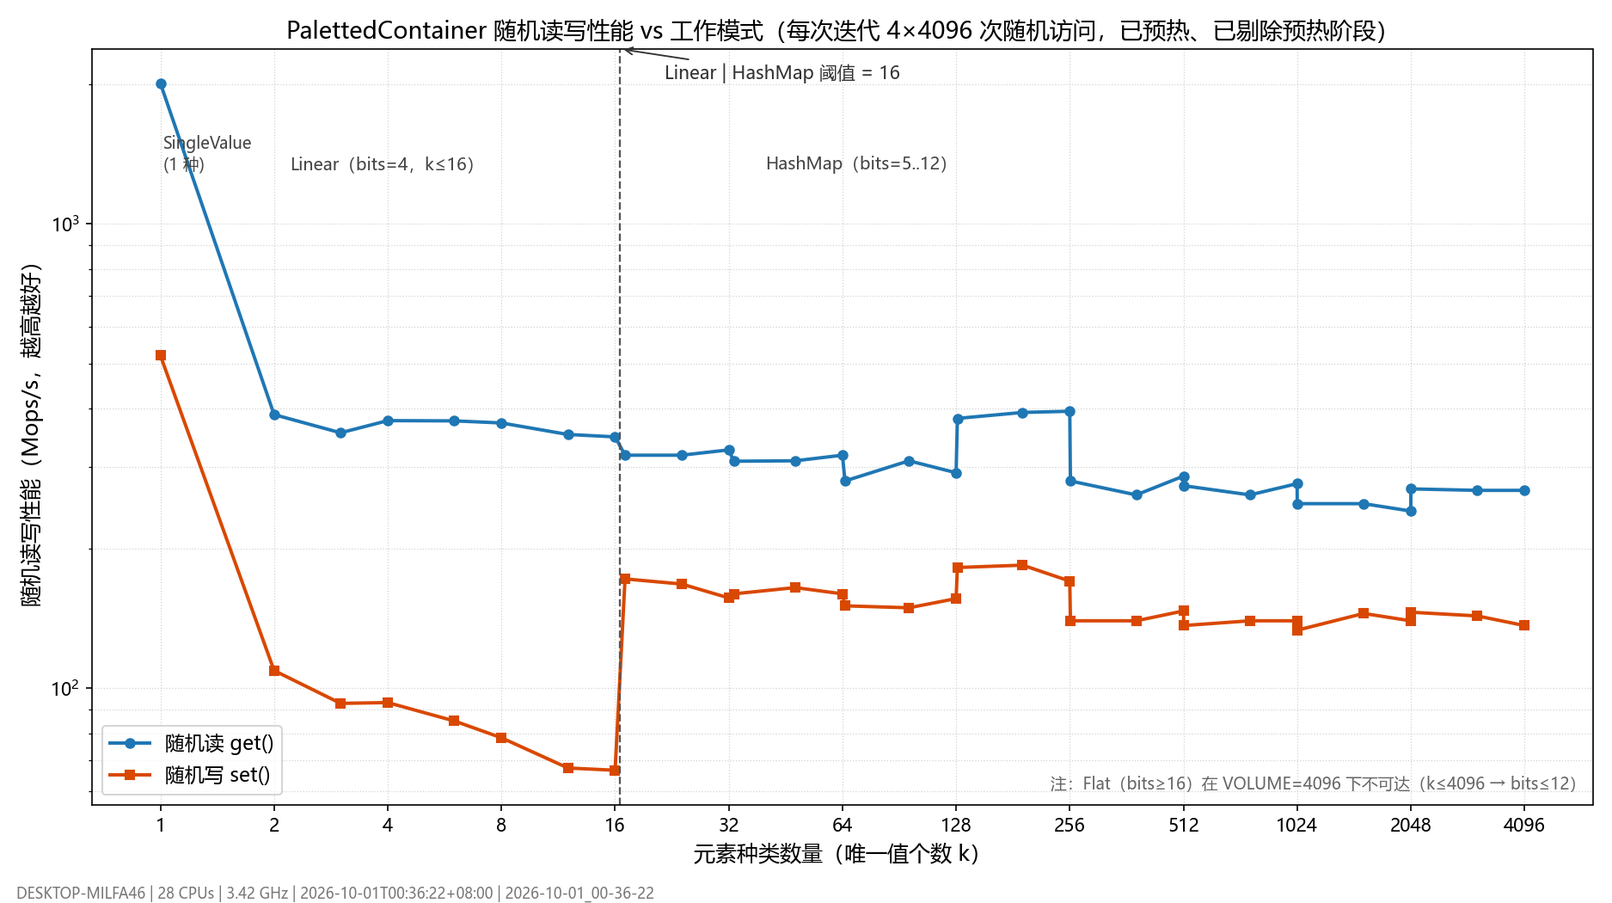
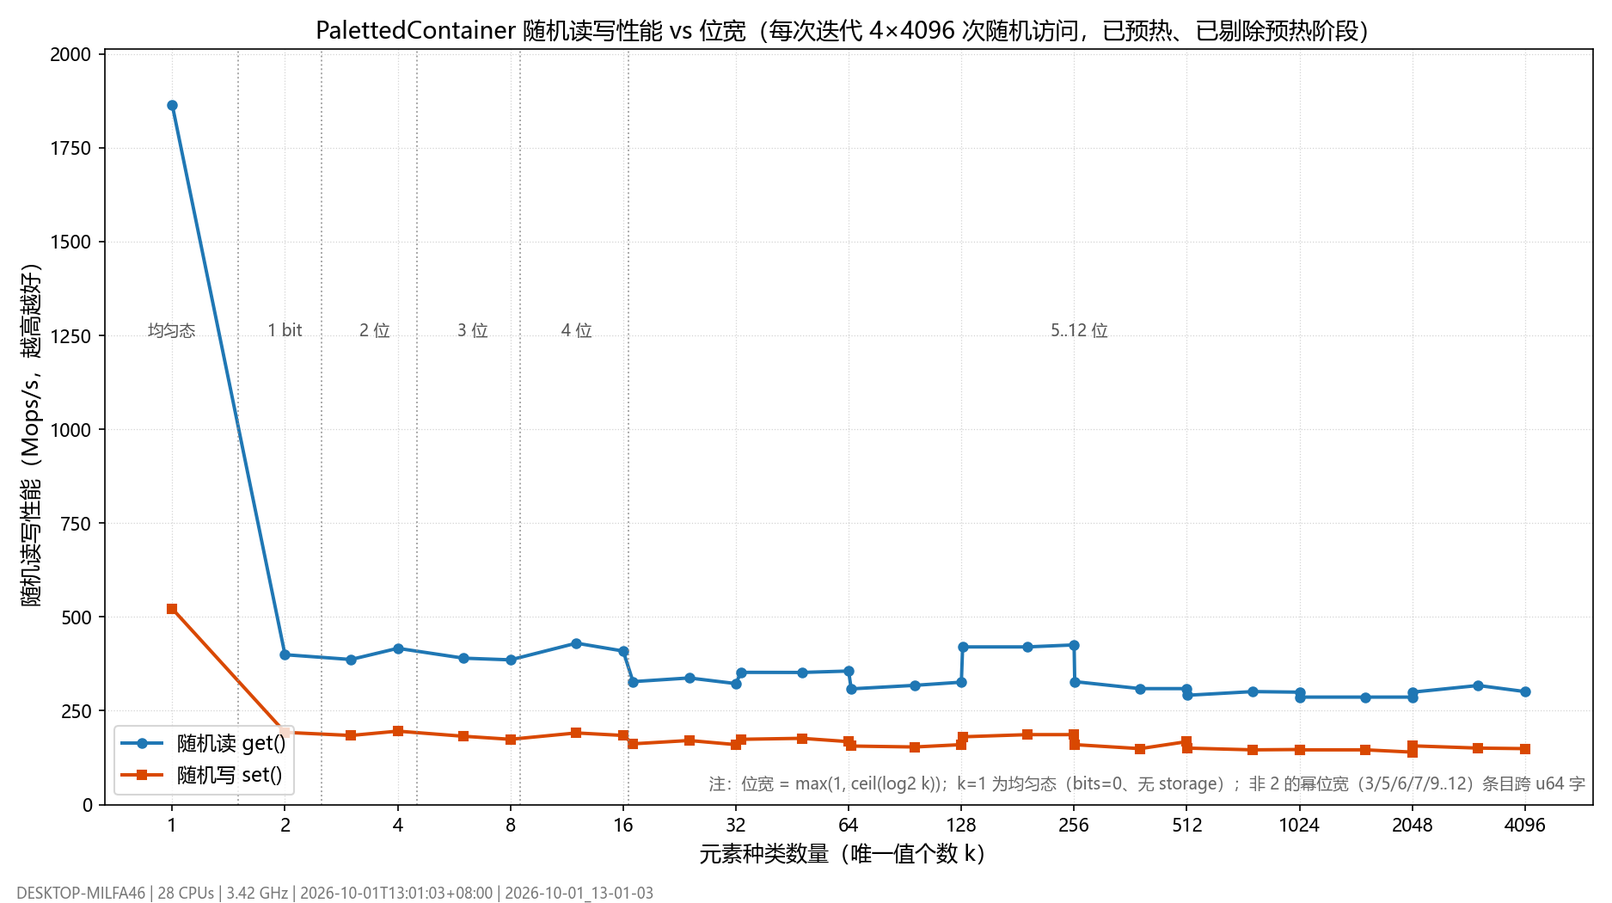
docs(benchmark): 调色板基准与图表随单模式设计更新
容器已收敛为单一哈希模式（上一提交），本提交把基准用例、绘图脚本与文档同步到新语义：

- 用例说明改为「vs 位宽」：k=1 为均匀态（bits=0、无 storage），k≥2 时
  bits = max(1, ceil(log2 k))，扫描点覆盖 bits 1..12 各档
- 绘图脚本：删除 Linear|HashMap 阈值、Flat 不可达等旧标注，改为位宽档分区标注；
  纵轴改为**线性且从 0 开始**（不再指数缩放），横轴保持 log2
- docs/BENCHMARK.md：重写该用例小节（新实测表与结论），新增「设计变更记录」小节，
  记录新旧实现对比（k=16 写 66.6→184.2 Mops/s、k=2 段内存 2.2KB→680B、真实地形
  256 区块批位存储 4.62MB→2.40MB）与真实地形位宽分布（1 位 259 段 / 2 位 1549 段 /
  3 位 446 段），并说明磁盘/网络格式不受影响
- benchmark/README.md 的用例清单同步；重新生成 docs/paletted_container_random_access.png

diff --git a/benchmark/scripts/plot_paletted_container.py b/benchmark/scripts/plot_paletted_container.py
@@ -28,10 +28,17 @@ from matplotlib.ticker import FuncFormatter, LogLocator
 REPO_ROOT = Path(__file__).resolve().parents[2]
 DEFAULT_OUTPUT = REPO_ROOT / "docs" / "paletted_container_random_access.png"
 
-# 模式边界（与 PalettedContainer::_modeForBits 一致）：bits==0 → SingleValue；
-# bits<=4 → Linear；bits<16 → HashMap；bits>=16 → Flat。
-LINEAR_MAX_KINDS = 16
-FLAT_MIN_BITS = 16
+# 容器只有一种工作模式（调色板 + 位压缩 + 反向哈希表）：k=1 是均匀态（bits=0、无 storage），
+# k>=2 时位宽 = max(1, ceil(log2(k)))。下面是用于标注的位宽档位边界。
+MIN_BITS = 1
+BIT_WIDTH_REGIONS = [
+    (1, 1, "uniform"),
+    (2, 2, "1 bit"),
+    (3, 4, "2 bits"),
+    (5, 8, "3 bits"),
+    (9, 16, "4 bits"),
+    (17, 4096, "5..12 bits"),
+]
 
 READ_PREFIX = "PalettedContainerRandomRead"
 WRITE_PREFIX = "PalettedContainerRandomWrite"
@@ -98,38 +105,33 @@ def load_series(results_path: Path) -> dict:
     return {"series": series, "context": context, "path": results_path}
 
 
-def mode_of(kinds: int, bits: int) -> str:
-    if bits == 0:
-        return "SingleValue"
-    if bits <= 4:
-        return "Linear"
-    if bits < FLAT_MIN_BITS:
-        return "HashMap"
-    return "Flat"
+def state_of(bits: int) -> str:
+    """位宽 → 状态标签（bits=0 即均匀态：无 storage）。"""
+    return "uniform" if bits == 0 else f"{bits} bits"
 
 
 def print_tables(data: dict) -> None:
     read, write = data["series"]["read"], data["series"]["write"]
     kinds_all = sorted(set(read) | set(write))
-    print(f"{'kinds':>6} {'bits':>5} {'mode':>11} {'palette':>8} {'mem(B)':>8} "
+    print(f"{'kinds':>6} {'bits':>5} {'state':>9} {'palette':>8} {'mem(B)':>8} "
           f"{'read Mops/s':>12} {'write Mops/s':>13} {'read ns':>8} {'write ns':>9}")
     for kinds in kinds_all:
         row = read.get(kinds) or write.get(kinds)
         r, w = read.get(kinds), write.get(kinds)
-        print(f"{kinds:>6} {row['bits']:>5} {mode_of(kinds, row['bits']):>11} {row['palette']:>8} "
+        print(f"{kinds:>6} {row['bits']:>5} {state_of(row['bits']):>9} {row['palette']:>8} "
               f"{row['memory_bytes']:>8.0f} "
               f"{(r['mops'] if r else float('nan')):>12.1f} {(w['mops'] if w else float('nan')):>13.1f} "
               f"{(r['ns_per_op'] if r else float('nan')):>8.2f} {(w['ns_per_op'] if w else float('nan')):>9.2f}")
 
-    # 阈值邻域对比：Linear 上界 vs HashMap 下界
-    print("\n阈值邻域（Linear 上界 k=16 vs HashMap 下界 k=17）:")
-    for kinds in (16, 17):
+    # 均匀态 → 1 位 的拐点（唯一值从 1 增到 2）
+    print("\n均匀态(k=1, 无 storage) vs 1 位(k=2):")
+    for kinds in (1, 2):
         r, w = read.get(kinds), write.get(kinds)
         if r and w:
             print(f"  k={kinds:>4}: read {r['mops']:8.1f} Mops/s  write {w['mops']:8.1f} Mops/s  "
                   f"bits={r['bits']} mem={r['memory_bytes']:.0f}B")
 
-    # 每个位宽档的读写均值（看位宽对性能的影响，尤其是 2 的幂位宽 bits=8）
+    # 每个位宽档的读写均值（看位宽对性能的影响，尤其是 2 的幂位宽不跨 u64 字）
     print("\n按位宽汇总（同档位所有 k 的算术平均）:")
     by_bits: dict[int, list[tuple[float, float]]] = {}
     for kinds, r in read.items():
@@ -165,11 +167,14 @@ def render(data: dict, output: Path) -> None:
             color="#d94801", label=t("随机写 set()", "random write set()"))
 
     ax.set_xscale("log", base=2)
-    ax.set_yscale("log")
+    # 纵轴线性且从 0 开始（不使用指数缩放）
+    ax.set_yscale("linear")
+    peak_mops = max([v["mops"] for v in read.values()] + [v["mops"] for v in write.values()])
+    ax.set_ylim(0.0, peak_mops * 1.08)
     ax.set_xlabel(t("元素种类数量（唯一值个数 k）", "distinct element kinds (k)"), fontsize=12)
     ax.set_ylabel(t("随机读写性能（Mops/s，越高越好）", "random access throughput (Mops/s)"), fontsize=12)
-    ax.set_title(t("PalettedContainer 随机读写性能 vs 工作模式（每次迭代 4×4096 次随机访问，已预热、已剔除预热阶段）",
-                   "PalettedContainer random access vs working mode (4x4096 random ops/iteration, warmed up)"),
+    ax.set_title(t("PalettedContainer 随机读写性能 vs 位宽（每次迭代 4×4096 次随机访问，已预热、已剔除预热阶段）",
+                   "PalettedContainer random access vs bit width (4x4096 random ops/iteration, warmed up)"),
                  fontsize=13)
     ax.grid(True, which="both", linestyle=":", linewidth=0.6, alpha=0.55)
     ax.legend(fontsize=11, loc="lower left")
@@ -180,20 +185,19 @@ def render(data: dict, output: Path) -> None:
     ax.get_xaxis().set_major_formatter(FuncFormatter(lambda value, _pos: f"{int(value):d}"))
     ax.xaxis.set_minor_locator(LogLocator(base=2.0, subs="auto", numticks=40))
 
-    # 模式分界：Linear 2..16 / HashMap 17..4096；Flat 在 VOLUME=4096 下不可达
-    ax.axvline(LINEAR_MAX_KINDS + 0.5, color="#555555", linestyle="--", linewidth=1.1)
+    # 位宽档分界（只有一种工作模式，k 决定位宽）：均匀态 | 1 | 2 | 3 | 4 | 5..12 位
     ymin, ymax = ax.get_ylim()
-    ax.annotate(t(f"Linear | HashMap 阈值 = {LINEAR_MAX_KINDS}",
-                  f"Linear | HashMap threshold = {LINEAR_MAX_KINDS}"),
-                xy=(LINEAR_MAX_KINDS + 0.5, ymax), xytext=(LINEAR_MAX_KINDS * 1.35, ymax * 0.86),
-                fontsize=10, color="#333333",
-                arrowprops={"arrowstyle": "->", "color": "#333333", "linewidth": 0.9})
-    ax.text(1.02, ymax * 0.55, t("SingleValue\n(1 种)", "SingleValue\n(1 kind)"), fontsize=9, color="#444444")
-    ax.text(2.2, ymax * 0.55, t("Linear（bits=4，k≤16）", "Linear (bits=4, k<=16)"), fontsize=9.5, color="#444444")
-    ax.text(40, ymax * 0.55, t("HashMap（bits=5..12）", "HashMap (bits=5..12)"), fontsize=9.5, color="#444444")
+    for _lo, hi, _label in BIT_WIDTH_REGIONS[:-1]:
+        ax.axvline(hi + 0.5, color="#888888", linestyle=":", linewidth=0.9, alpha=0.8)
+    for lo, hi, label in BIT_WIDTH_REGIONS:
+        center = math.sqrt(lo * hi) if lo != hi else lo
+        ax.text(center, ymax * 0.62, t(label.replace("bits", "位").replace("uniform", "均匀态"),
+                                      label),
+                fontsize=9, color="#555555", ha="center")
     ax.text(0.995, 0.02,
-            t(f"注：Flat（bits≥{FLAT_MIN_BITS}）在 VOLUME=4096 下不可达（k≤4096 → bits≤12）",
-              f"note: Flat (bits>={FLAT_MIN_BITS}) is unreachable at VOLUME=4096"),
+            t(f"注：位宽 = max({MIN_BITS}, ceil(log2 k))；k=1 为均匀态（bits=0、无 storage）；"
+              "非 2 的幂位宽（3/5/6/7/9..12）条目跨 u64 字",
+              f"note: bits = max({MIN_BITS}, ceil(log2 k)); k=1 is uniform (no storage)"),
             transform=ax.transAxes, ha="right", fontsize=9, color="#666666")
 
     ctx = data["context"]

diff --git a/benchmark/cases/PalettedContainerBenchmark.cpp b/benchmark/cases/PalettedContainerBenchmark.cpp
@@ -86,10 +86,10 @@ struct AccessPattern {
 
 /// 装配容器：把 VOLUME 个位置均匀填成 k 种取值（各约 VOLUME/k 个位置）。
 ///
-/// 先 fill(1) 建立 SingleValue 基线，再逐格 set()：k=1 时全部 set 命中单一值、容器保持
-/// SingleValue（bits=0）；k≥2 时首次 set 触发 SingleValue→Linear 转换，随后调色板按新值
-/// 出现顺序增长到恰好 k 项。与生产路径（ChunkSection 逐格写入）一致，含真实的
-/// _onResize 位数提升。
+/// 先 fill(1) 建立均匀态基线，再逐格 set()：k=1 时全部 set 命中唯一值、容器保持均匀态
+/// （bits=0、无 storage）；k≥2 时首次 set 升到 1 位并建立反向哈希表，随后调色板按新值
+/// 出现顺序增长到恰好 k 项、位宽升到 ceil(log2(k))。与生产路径（ChunkSection 逐格写入）
+/// 一致，含真实的 _onResize 位宽提升。
 void buildContainer(PalettedContainer& container, i32 k)
 {
     container.fill(1);
@@ -138,14 +138,14 @@ void warmUpWrites(PalettedContainer& container, const AccessPattern& pattern)
 }
 
 /**
- * @brief 随机读基准（按元素种类数量扫描调色板模式）
+ * @brief 随机读基准（按元素种类数量扫描位宽）
  *
- * 一次迭代 = 对固定随机索引序列做 4×VOLUME 次 get()。工作模式由 k 决定：
- * k=1 → SingleValue（bits=0，直取单值）；k=2..16 → Linear（bits=4，线性调色板）；
- * k=17..4096 → HashMap（bits=5..12，哈希双射调色板 + 跨 u64 字的位存储）。
+ * 一次迭代 = 对固定随机索引序列做 4×VOLUME 次 get()。容器只有一种工作模式
+ * （调色板 + 位压缩 + 反向哈希表），k 只决定位宽：k=1 为均匀态（bits=0、无 storage，
+ * 直取 palette[0]），k≥2 时 bits = max(1, ceil(log2(k)))（k=2..4096 → 1..12 位）。
  *
  * 报告 reads_per_second（User Counter，迭代不变速率），并附带 bits_per_entry /
- * palette_size / memory_bytes 便于与内存换性能一起权衡阈值。
+ * palette_size / memory_bytes 便于与内存一起权衡。
  */
 void PalettedContainerRandomRead(::benchmark::State& state)
 {
@@ -173,11 +173,11 @@ void PalettedContainerRandomRead(::benchmark::State& state)
 }
 
 /**
- * @brief 随机写基准（按元素种类数量扫描调色板模式）
+ * @brief 随机写基准（按元素种类数量扫描位宽）
  *
  * 一次迭代 = 对固定随机索引序列做 4×VOLUME 次 set()，写入值取自当前 k 种取值集合，
- * 因此调色板不会增长（测稳态写入：Linear 的线性扫描 vs HashMap 的开放寻址哈希查找，
- * 以及不同的位存储宽度/调色板驻留大小）。
+ * 因此调色板不会增长（测稳态写入：反向哈希表查找 + 位存储读改写，以及不同位宽/
+ * 调色板驻留大小的成本）。
  */
 void PalettedContainerRandomWrite(::benchmark::State& state)
 {
@@ -209,9 +209,9 @@ void PalettedContainerRandomWrite(::benchmark::State& state)
 /**
  * @brief 元素种类数量扫描点（横轴），共 32 档
  *
- * 覆盖 SingleValue(1)、Linear(2..16)、HashMap 的每个位宽档（bits 5..12，各取低/中/高）：
- * 既能看清 Linear→HashMap 阈值（16/17）附近的拐点，也能对比非 2 的幂位宽（跨 u64 字
- * 读写）与 2 的幂位宽（bits=8，恰好 8 项/字、无跨字）的差异。
+ * 覆盖均匀态（k=1，bits=0）与每个位宽档（bits 1..12，各取低/中/高）：
+ * 既能看到"1 位/2 位/3 位"这些新支持的窄位宽（真实地形段的常见档位），也能对比非 2 的
+ * 幂位宽（跨 u64 字读写）与 2 的幂位宽（bits=1/2/4/8，无跨字）的差异。
  *
  * 这里用展开宏而不是函数：`BENCHMARK()` 宏展开成一个**声明**（内部生成 static 变量，
  * 返回值不能作为表达式实参传递），因此只能把同一份清单展开进两个 BENCHMARK 声明，

diff --git a/docs/BENCHMARK.md b/docs/BENCHMARK.md
@@ -70,14 +70,17 @@ cmake --build --preset macos-relwithdebinfo -- -j{核心数-2} mc_benchmark
 
 TLS 方块光引擎批量更新：每迭代对一个 16×16 截面层做 256 个方块光变更，GLOWSTONE/AIR 交替翻转保证传播工作量稳定；报告 `blocks_per_second`。不经过 tick 级调度（那属于系统吞吐，由 ChunkGeneration 间接覆盖）。
 
-### PalettedContainerRandomRead / PalettedContainerRandomWrite（调色板随机读写 vs 工作模式）
+### PalettedContainerRandomRead / PalettedContainerRandomWrite（调色板随机读写 vs 位宽）
 
-对 `PalettedContainer`（16³ = 4096 格）扫描元素种类数量 k=1..4096，用同一条固定随机序列测随机读（`get`）与随机写（`set`），为 `_modeForBits` 的模式切换阈值提供实测依据（此前阈值是照搬原版/拍脑袋，没有实测）。
+对 `PalettedContainer`（16³ = 4096 格）扫描元素种类数量 k=1..4096，用同一条固定随机序列测随机读（`get`）与随机写（`set`）。容器**只有一种工作模式**（调色板 + 位压缩 + 开放寻址反向哈希表），k 只决定位宽：k=1 是均匀态（`bits=0`、不分配 storage），k≥2 时 `bits = max(1, ceil(log2 k))`（即 1..12 位）。
 
-- 32 档扫描点：SingleValue(1)、Linear(2..16)、HashMap 的每个位宽档（bits 5..12，各取低/中/高）
+> 该用例是为"要不要去掉 Linear/Flat/SingleValue 三种模式、破除 4 位下限"提供实测依据而加的；结论已被采纳并落地（见文末「设计变更记录」）。
+
+- 32 档扫描点：均匀态(1) + 每个位宽档（bits 1..12，各取低/中/高）
 - 口径：一次迭代 = 4×4096 次随机访问；**装配（填 k 种值）与预热（8 轮同序列访问）都在计时循环之前，不计入结果**（google/benchmark 只对 `for (auto _ : state)` 循环体计时）
-- 写入值取自当前 k 种取值集合 → 调色板不增长，测稳态读写，不含扩容/模式转换
+- 写入值取自当前 k 种取值集合 → 调色板不增长，测稳态读写，不含扩容/位宽提升
 - 报告 `reads_per_second` / `writes_per_second`，并附带 `bits_per_entry` / `palette_size` / `memory_bytes`
+- 图表纵轴为**线性、从 0 开始**（横轴为 log2），便于直读绝对吞吐
 
 复现（`--benchmark_trace` 与本用例无关，默认关闭即可）：
 
@@ -89,32 +92,54 @@ python benchmark/scripts/plot_paletted_container.py \
     --output docs/paletted_container_random_access.png
 ```
 
-![PalettedContainer 随机读写性能 vs 工作模式](paletted_container_random_access.png)
+![PalettedContainer 随机读写性能 vs 位宽](paletted_container_random_access.png)
 
 实测（i7-14700KF，3 次重复取中位数；Mops/s 越高越好）：
 
-| 区间 | k | 模式（bits） | 随机读 | 随机写 | 估算内存 |
-|---|---|---|---|---|---|
-| SingleValue | 1 | SingleValue (0) | 2007.5 | 520.8 † | 116 B |
-| Linear | 2 | Linear (4) | 388.6 | 109.2 | 2.2 KB |
-| Linear | 8 | Linear (4) | 372.8 | 78.3 | 2.2 KB |
-| Linear | 16 | Linear (4) | 348.0 | 66.6 | 2.2 KB |
-| HashMap | 17 | HashMap (5) | 317.8 | 172.1 | 2.9 KB |
-| HashMap | 129/192/256 | HashMap (8) | 381.3 / 392.8 / 395.1 | 182.1 / 184.2 / 170.2 | 5.8~7.5 KB |
-| HashMap | 1025..2048 | HashMap (11) | 249.9~266.9 | 133.5~145.9 | 18.2~31.7 KB |
-| HashMap | 4096 | HashMap (12) | 266.9 | 136.6 | 60.6 KB |
+| k | bits | 随机读 | 随机写 | 估算内存 |
+|---|---|---|---|---|
+| 1 | 0（均匀态） | 1864.1 | 522.0 † | 100 B |
+| 2 | 1 | 399.5 | 192.5 | 680 B |
+| 3 / 4 | 2 | 386.6 / 416.5 | 184.2 / 195.7 | 1.2 KB |
+| 6 / 8 | 3 | 390.2 / 385.7 | 182.1 / 174.0 | 1.7 KB |
+| 12 / 16 | 4 | 430.2 / 409.2 | 191.0 / 184.2 | 2.3 KB |
+| 17 / 32 | 5 | 327.7 / 322.4 | 162.0 / 159.8 | 2.9~3.0 KB |
+| 129 / 256 | 8 | 420.2 / 425.5 | 180.7 / 186.4 | 5.8~7.5 KB |
+| 1025 / 2048 | 11 | 286.4 / 286.4 | 145.9 / 139.8 | 18.2~31.7 KB |
+| 4096 | 12 | 301.1 | 149.1 | 60.6 KB |
 
-† k=1 时写入值恒等于容器唯一值 → `SingleValue` 早退，属无操作写入，不代表真实写入成本。
+† k=1 时写入值恒等于唯一值 → 均匀态早退，属无操作写入，不代表真实写入成本。
 
-**结论（调参依据）**
+**结论**
 
-1. **阈值只影响写入，不影响读取**：读路径是"位存储 → 调色板正向索引"，不做反查；写路径才需要 `_idFor`（线性扫描 vs 哈希查找）。因此 `Linear→HashMap` 阈值应由写性能决定，用读曲线调阈值是没有意义的。
-2. **阈值 16 对写入明显偏晚**：Linear 写在 k=16 已降到 66.6 Mops/s（线性扫描 16 项），而 HashMap 在 k=17 是 172.1 Mops/s（**2.6×**）。线性扫描成本随 k 单调增长（k=2: 109 → k=16: 67），交叉点应在更小的 k；但当前实现把"策略"与"位宽"绑死（`bits<=4 → Linear`），**无法在 k≤16 上测到哈希路径**，要定准交叉点必须先解耦二者再做 A/B。
-3. **位宽非 2 的幂时有 20%~30% 惩罚**：bits=8（k=129..256）读 ~390 / 写 ~179，明显高于 bits=5..7 与 9..12（读 247~321 / 写 139~166）；bits=4（也是 2 的幂）读 348~389、但写只有 67~109（受线性扫描拖累）。根因是 `_readBits/_writeBits` 允许条目跨 u64 字（"跨两个字"分支）。可选调法：**(a)** 改成原版 MC 的 `valuesPerLong = 64/bits` 布局（每字内不对齐但不跨字，内存增加约 2%~17%，bits=11 档最差）；**(b)** 位宽向上取整到 2 的幂（如 k=17 用 bits=8：内存 2.9 KB→4 KB，换约 +25% 速度）。
-4. **`Flat`（`MIN_BITS_FOR_FLAT = 16`）在 `VOLUME = 4096` 下不可达**：k≤4096 → `paletteSize`≤4096 → bits≤12，`_modeForBits` 永不返回 `Flat`；`fromFlat` 里 `uniqueCount >= 1<<16` 的分支同样不可达（注释也已标注"VOLUME=4096 时不可达，保留兜底"）。另外 `_calculateBitsForValue()` 全项目只有定义、没有调用点（死代码）。二者若确认无用应清理，否则会给"以为 Flat 阈值在起作用"的错误印象。
-5. **SingleValue 是绝对甜点**：读 2007.5 Mops/s（比 Linear 快 5×）、内存 116 B。让空气段尽量保持 SingleValue，收益远大于任何阈值微调。
+1. **位宽只由唯一值个数决定，2 的幂位宽仍明显更优**：bits=8 档（k=129..256）读 ~420 / 写 ~183，高于 bits=5..7 与 9..12（读 286~352 / 写 146~176）。根因仍是 `_readBits/_writeBits` 允许条目跨 u64 字（"跨两个字"分支）；bits=1/2/4/8 不跨字。若要把这几档的 20%~30% 拿回来，可改成原版 MC 的 `valuesPerLong = 64/bits` 布局（代价：内存 +2%~17%，bits=11 档最差）。
+2. **读比写快、且写入受唯一值个数影响小**：写路径要经反向哈希表查找（开放寻址 + 线性探测，负载 ≤ 75%），读路径只做"位提取 + 调色板正向索引"。
+3. **均匀态是绝对甜点**：读 1864 Mops/s、写 522 Mops/s（无操作早退）、内存 100 B。让空气段/整段同值保持均匀态（不分配 storage）收益最大。
 
-> 说明：以上为单机（Windows / i7-14700KF）中位数结果，绝对吞吐随机器变化；调阈值时请以**同机相对比较**为准（例如"k=16 Linear 写 vs k=17 HashMap 写"）。
+> 说明：以上为单机（Windows / i7-14700KF）中位数结果，绝对吞吐随机器变化；跨机只比相对值。
+
+### 设计变更记录：PalettedContainer 收敛为单一哈希模式（2026-10-01）
+
+上述基准得出"Linear 线性扫描让 k=2..16 的写入塌到 67~109 Mops/s、而哈希在 k=17 是 172"的结论后，`PalettedContainer` 已按此重构：
+
+- **删除** `SingleValue` / `Linear` / `Flat` 三种模式与 `_modeForBits`、`MIN_BITS_FOR_FLAT`、`_transitionSingleToLinear`：只剩"调色板 + 位压缩 + 反向哈希表"一种实现
+- **破除 4 位下限**：`bits = max(1, ceil(log2(唯一值个数)))`；唯一值为 1 时是均匀态（`bits=0`、不分配 storage / 哈希表，`fill()` 释放二者）
+- **删除死接口**：`rawPalette()` / `storage()` / `paletteValue()` / `rawPalettePtr` / `_calculateBitsForValue()`（其中前两者类外无调用者，`rawPalettePtr` 只写不读）
+- **磁盘/网络格式不受影响**：`JavaChunkReader` / `ChunkSerializer` / `VanillaChunkWire` 各自按 MC 规则重算位数与打包，内部位宽只影响内存布局
+- 顺带修掉一处潜在重复插入：`_hashMapInsert` 在触发扩容重建后直接返回（重建已把新增条目纳入表中）
+
+效果（同机同口径，中位数）：
+
+| 指标 | 旧实现 | 新实现 |
+|---|---|---|
+| k=2 写 / 读 | 109.2 / 388.6 Mops/s | **192.5 / 399.5** |
+| k=8 写 / 读 | 78.3 / 372.8 Mops/s | **174.0 / 385.7** |
+| k=16 写 / 读 | 66.6 / 348.0 Mops/s | **184.2 / 409.2** |
+| k=16 段内存 | 2.2 KB（恒 4 位） | **2.3 KB**（4 位）+ 哈希 64 B |
+| k=2 段内存 | 2.2 KB（恒 4 位） | **680 B**（1 位） |
+| 真实地形 256 区块批的位存储合计 | 4.62 MB（2254 段全 4 位） | **2.40 MB（-48%）**：1 位 259 段 / 2 位 1549 段 / 3 位 446 段 |
+
+真实地形分布由 `ChunkGeneration` 的临时 CSV 导出测得（`benchmark_results/palette_bits/`）：出生点 256 区块内 2254 个已创建段的 `palette_size` 全落在 **2..8**（无单值段），因此新位宽是 1~3 位。
 
 ### serverInitializeShell / serverInitializeWorld（服务端启动）
 

diff --git a/benchmark/README.md b/benchmark/README.md
@@ -49,15 +49,15 @@ benchmark/
 - 被测进程的 stdout/stderr 重定向到 `<临时世界目录>/server_console.log`（两个平台一致）：非零退出时回显日志头 80 行 + 尾 120 行（超长中间省略）**并保留该临时世界目录**供事后排查；成功退出时静默删除
 - 依赖：须先构建 `minecraft-server`（路径 `build/bin/RelWithDebInfo/minecraft-server` 硬编码，相对仓库根目录运行）
 
-### PalettedContainerRandomRead / PalettedContainerRandomWrite（调色板随机读写）
+### PalettedContainerRandomRead / PalettedContainerRandomWrite（调色板随机读写 vs 位宽）
 
-对 `PalettedContainer`（16³ = 4096 格）扫描元素种类数量 k=1..4096，用同一条固定随机序列测随机读（`get`）与随机写（`set`）吞吐，为"模式切换阈值"提供实测依据。
+对 `PalettedContainer`（16³ = 4096 格）扫描元素种类数量 k=1..4096，用同一条固定随机序列测随机读（`get`）与随机写（`set`）。容器只有一种工作模式（调色板 + 位压缩 + 反向哈希表），k 只决定位宽：k=1 为均匀态（`bits=0`、无 storage），k≥2 时 `bits = max(1, ceil(log2 k))`。
 
-- 32 档扫描点：SingleValue(1)、Linear(2..16)、HashMap 的每个位宽档（bits 5..12，各取低/中/高），能看清 16/17 阈值拐点与"跨 u64 字"（非 2 的幂位宽）的影响
+- 32 档扫描点：均匀态(1) + 每个位宽档（bits 1..12，各取低/中/高）
 - 一次迭代 = 4×4096 次随机访问；**装配（填 k 种值）与预热（8 轮同序列访问）都在计时循环之前，不计入结果**
-- 写入值取自当前 k 种取值集合 → 调色板不增长，测的是稳态读写，不含扩容/模式转换
+- 写入值取自当前 k 种取值集合 → 调色板不增长，测的是稳态读写，不含扩容/位宽提升
 - 报告 `reads_per_second` / `writes_per_second`，附带 `bits_per_entry` / `palette_size` / `memory_bytes`
-- 图表与调参结论见 [docs/BENCHMARK.md](../docs/BENCHMARK.md) 的同名小节，绘图脚本 `scripts/plot_paletted_container.py`
+- 图表与设计变更记录见 [docs/BENCHMARK.md](../docs/BENCHMARK.md) 的同名小节，绘图脚本 `scripts/plot_paletted_container.py`（纵轴线性、从 0 开始；横轴 log2）
 
 ## 构建与运行
 
